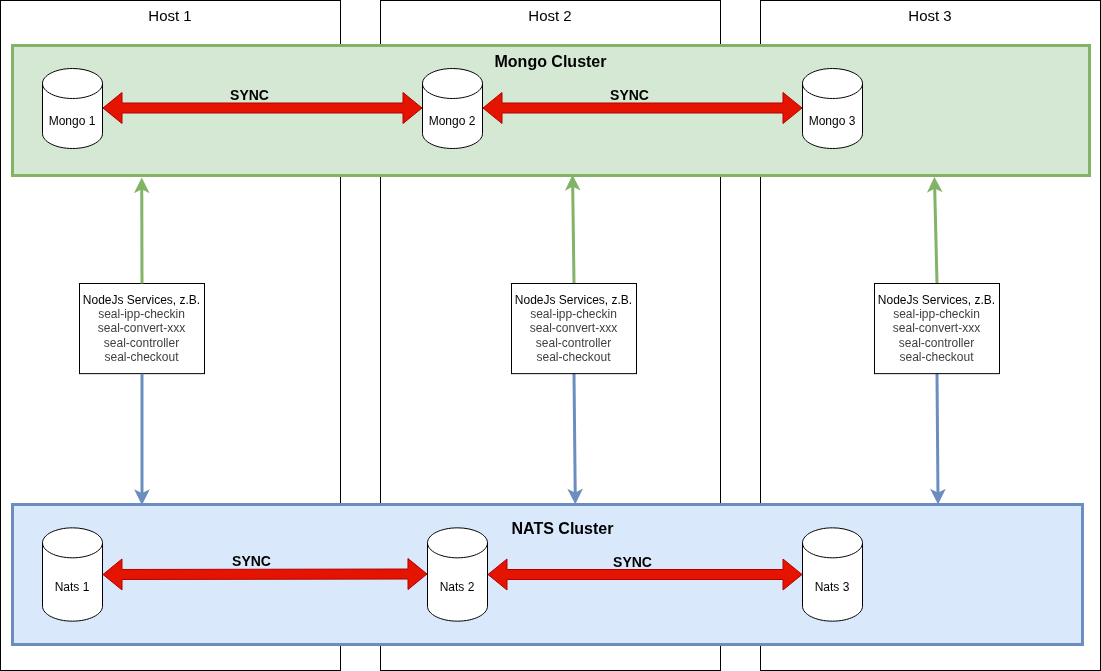
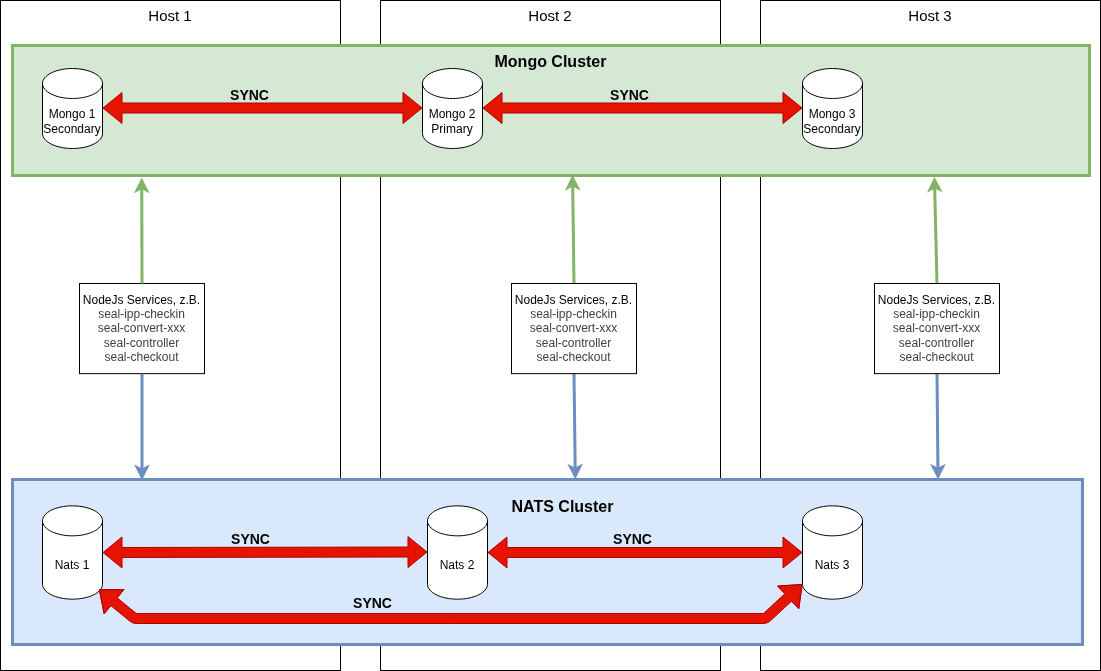
.

diff --git a/mongo+nats.md b/mongo+nats.md
@@ -1,12 +1,16 @@
-# Architecture
+# MongoDB & NATS
+
+## Architektur
 
 ![Architecure](./architecture3.png)
 
-## Mongo Config
+## MongoDB
 
-### Cache einschränken
+### MongoDB Config
 
-Auf Rechnern mit wenig RAM kann der MongoDB Cache eingeschränkt werden. Erfahrungsgemäß sollten es **mindestens* 2GB sein.
+#### Cache einschränken
+
+Ein MongoDB zieht im Default "(Hauptspeichergröße / 2) - 1" GB RAM. Auf Rechnern mit wenig RAM kann der MongoDB Cache eingeschränkt werden. Erfahrungsgemäß sollten es aber **mindestens** 2GB sein.
 
 ```yaml
 storage:
@@ -15,7 +19,7 @@ storage:
         cacheSizeGB: 2
 ```
 
-### TLS CA Zertifikate
+#### TLS CA Zertifikate
 
 Wenn ein CA Zertifikat konfiguriert werden muss.
 
@@ -32,9 +36,9 @@ setParameter:
 #  tlsUseSystemCA: true
 ```
 
-## Mongo Probleme
+### MongoDB Probleme
 
-### Platte voll
+#### Platte voll
 
 Lösungsschritte:
 
@@ -46,9 +50,11 @@ Lösungsschritte:
 
 - Danach erst SEAL Software hochfahren
 
-### Eine MongoDB im Cluster funktioniert nicht mehr
+#### Eine MongoDB im Cluster synchronisiert nicht mehr
 
-Nach längerem Ausfall eines MongoDB Service kann es passieren, dass er sich nach dem Hochfahren nicht mehr synchronisieren kann. Hier hilft nur eine vollständige Neusynchronisierung.
+- Synchronisierungsprobleme erkennt man am dauerhaften Status "RECOVERING".
+
+- Nach längerem Ausfall eines MongoDB Service kann es passieren, dass er sich nach dem Hochfahren nicht mehr synchronisieren kann. Hier hilft nur eine vollständige Neusynchronisierung.
 
 Lösungsschritte:
 
@@ -58,11 +64,15 @@ Lösungsschritte:
 
 - Alle Dateien im MongoDB Datenverzeichnis (Linux: /opt/seal/data/seal-mongodb, Windows: c:\ProgrammData\SEAL Systems\data\seal-mongo) löschen. **Achtung:** nicht das Verzeichnis selbst löschen.
 
-### TLS Zertifikat funktioniert nicht
+- MongoDB wieder starten und so lange warten bis "rs.status()" nicht mehr "RECOVERING" anzeigt. Das kann je nach Datenmenge 10-15 Minuten dauern.
+
+- SEAL Software auf allen Rechnern im Cluster wieder starten
+
+#### TLS Zertifikat funktioniert nicht
 
 Generell bei Fehlern mit Kundenzertifikaten prüfen:
 
-- Liegen Zertifikat und Key im PEM Format vor. Andere Formate werden nicht akzeptiert.
+- Liegen Zertifikat und Key File im PEM Format vor. Andere Formate werden nicht akzeptiert.
 
 - Wurden Zertifikat und Key korrekt in eine gemeinsame Datei kopiert. Die Struktur muss wie folgt aussehen, wobei die Reihenfolge von Zertifikat & Key egal ist:
   ```
@@ -76,56 +86,124 @@ Generell bei Fehlern mit Kundenzertifikaten prüfen:
 
 - Gibt es ein CA Zertifikat und wurde es korrekt konfiguriert, siehe [TLS CA Zertifikate](#tls-ca-zertifikate)
 
-Die Fehlermeldungen im MongoDB Logfile sind in der Regel aussagekräftig und weisen sofort in die richtige Richtung, siehe Beispiele unten.
+Die Fehlermeldungen im MongoDB Logfile sind in der Regel aussagekräftig und weisen sofort in die richtige Richtung.
 
-Beispiele:
+Beispiele für Fehlermeldungen:
 
-"The use of TLS without specifying a chain of trust is no longer supported": es fehlt ein CA Zertifikat, siehe [TLS CA Zertifikate](#tls-ca-zertifikate).
+"The use of TLS without specifying a chain of trust is no longer supported ...": es fehlt ein CA Zertifikat, siehe [TLS CA Zertifikate](#tls-ca-zertifikate).
 
 "The use of both a CA File and the System Certificate store is not supported.":  "CAFile" und "tlsUseSystemCA" sind vorhanden, siehe [TLS CA Zertifikate](#tls-ca-zertifikate).
 
 "Can not set up PEM key file.": die Datei auf die "certificateKeyFile" verweist ist nicht korrekt. Hier gib tes mehrere Möglichkeiten. Entweder die Datei enthält nur das Zertifikat oder nur den Key, oder Zertifikat/Key ist generell kaputt.
 
 
-### ReplicaSet nicht initialisiert
+#### ReplicaSet nicht initialisiert
 
 Wenn ein "rs.status()" die Meldung "MongoServerError: no replset config has been received" liefert, wurde "rs.initiate()" vergessen.
 
+### MongoDB nützliche Kommandos
 
-## Mongo Kommandos
-
-### MongoDB Shell Aufruf
+#### MongoDB Shell Aufruf
 
 Windows:
+
 ```powershell
 & "C:\Program Files\mongosh\mongosh.exe" --tls --tlsAllowInvalidCertificates
 ```
+
 Linux:
+
 ```bash
 mongosh --tls --tlsAllowInvalidCertificates
 ```
 
-### Batch Kommandos generell
+#### Batch Kommandos generell
 
 ```
-mongosh --eval „<Kommando>“
+--eval "<Kommando>"
 ```
 
-### ReplicaSet prüfen
+#### ReplicaSet prüfen
 
 ```
 rs.status()
 ```
 
-Vollständige Zeile: 
+Vollständige Zeile für Windows:
+
+```bash
+& "C:\Program Files\mongosh\mongosh.exe" --tls --tlsAllowInvalidCertificates --eval "rs.status()"
+```
+Vollständige Zeile für Linux:
 
 ```bash
 mongosh --tls --tlsAllowInvalidCertificates --eval "rs.status()"
 ```
 
+#### Interaktive Kommandos
 
-## NATS Probleme
+`show dbs` zeigt alle Datenbanken an. Beipielausgabe:
 
-KEINE!
+  ```
+  admin                  128.00 KiB
+  config                 364.00 KiB
+  local                  234.54 MiB
+  spooler-actions          8.00 KiB
+  spooler-configs        108.00 KiB
+  spooler-jobs            30.33 MiB
+  spooler-locks          108.00 KiB
+  spooler-notifications  116.00 KiB
+  spooler-preprocess     108.00 KiB
+  spooler-printers       484.00 KiB
+  spooler-remote-sites    72.00 KiB
+  spooler-ui              96.00 KiB
+  ```
 
-Aber: ein seal-co-notifier Problem den NATS KV Store korrekt zu benutzen. Ist mit seal-co-notifier 5.12.
+`use <db name>` wechselt in die angegebene Datenbank . Beispiel:
+
+```
+use spooler-jobs
+```
+
+`db.dropDatabase()` löscht die mit `use` aktuell ausgewählte Datenbank. **Nur im Notfall benutzen!**
+
+## NATS
+
+### NATS Config
+
+#### Monitoring einschalten
+
+Zum Prüfen des NATS Status kann der Monitoring Port in der "nats.conf" eingeschaltet werden. Die notwendige Zeile ist bereits als Kommentar enthalten.
+
+```conf
+# HTTP monitoring port
+monitor_port: 8222
+```
+
+Nach NATS Neustart kann im Browser der Status angezeigt werden. Falls auf dem Server kein Browser vorliegt, nicht vergessen den Port in der Firewall frei zu schalten, falls noch nicht erledigt.
+
+Die Startseite des Monitoring sieht so aus:
+
+![Monitor](./nats_monitor.png)
+
+Cluster Verbindungen unter dem Punkt "General":
+
+![Cluster Connections](./nats_connection.png)
+
+
+#### Debug und Trace Meldungen einschalten
+
+In der Regel nicht benötigt, Fehler stehen auch im normalen Logfile.
+
+Trace nur im äußersten Notfall, die Logdateien wachsen damit sehr schnell auf eine enorme Größe an.
+
+```conf
+debug: true
+trace: true
+```
+
+### NATS Probleme
+
+Keine bekannten Probleme!
+
+**Aber:** Es gab im seal-co-notifier ein Problem, dort wurde der NATS KV Store nicht korrekt. Ist mit seal-co-notifier ab Version 5.1.2 und PLOSSYS Output Engine 7.4.0 behoben.